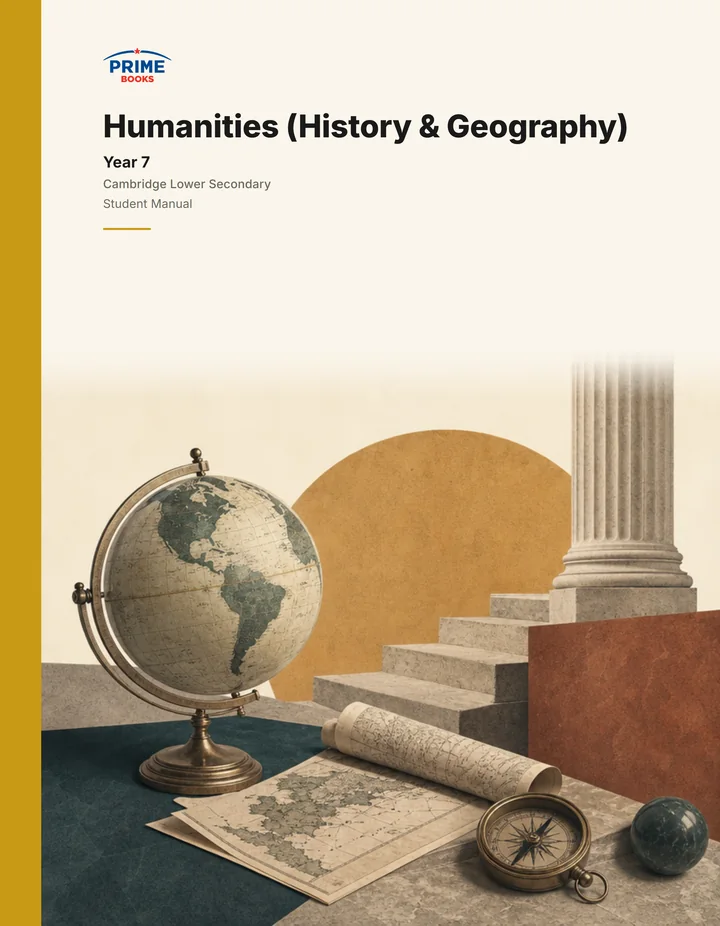
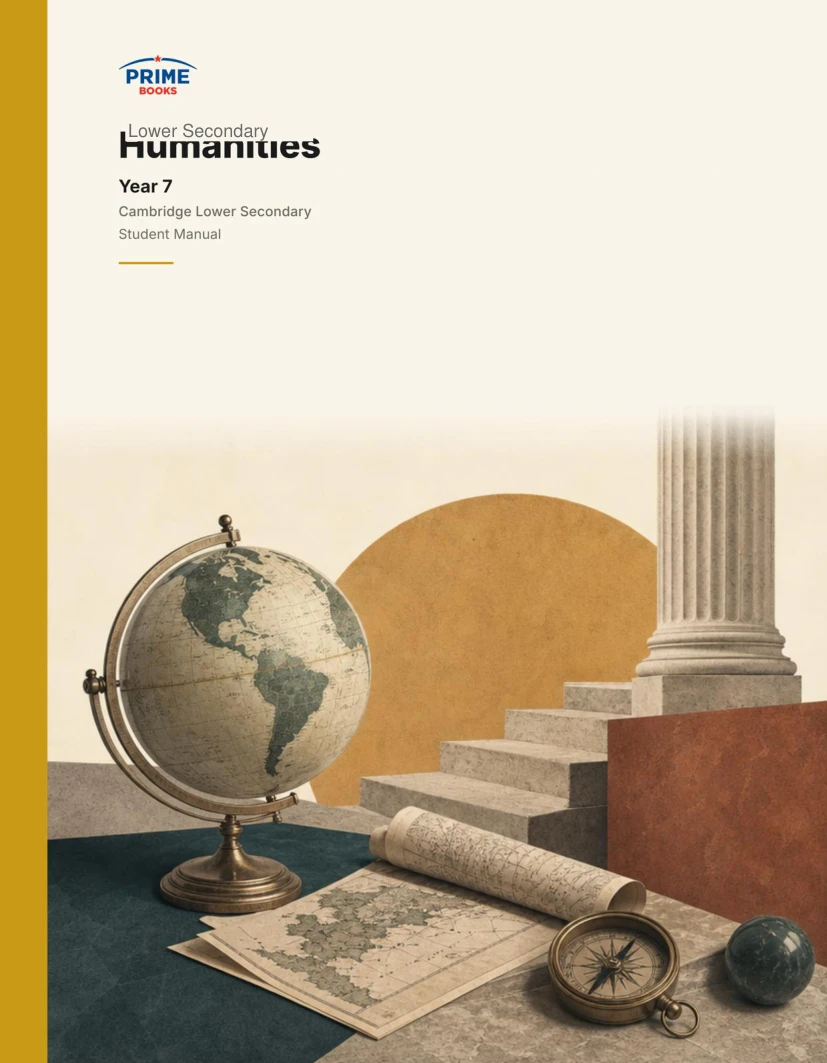
Fix dark-blue covers; every card now shows its book's own cover
Two bugs: (1) the cover-reveal CSS rule (.bcov img[src] { opacity: 1 }) was
lost in the 3D-excision sweep, so every cover sat invisible at opacity 0 over
the navy .bcov background; restored. (2) coverURL now prefers the book's OWN
cover.webp from its library/<slug>/ folder (rendered from page 1 by the sync
tool) before falling back to the shared collection-covers art. Generated the
7 missing covers (y07 Global Perspectives, y10 BTEC/Spanish, y11 PE, y12
Portuguese/Spanish A-level, y13 PE) from each book's page 1.

diff --git a/index.html b/index.html
@@ -669,6 +669,9 @@
         opacity: 0;
         transition: opacity 0.5s ease;
       }
+      .bcov img[src] {
+        opacity: 1;
+      }
 
       .bcov.dim img {
         filter: grayscale(0.65) brightness(0.85);
@@ -5261,6 +5264,17 @@ function rr(x, px, py, w, h, r) {
       function coverURL(year, subj) {
         const key = year + "|" + subj;
         if (coverCache.has(key)) return coverCache.get(key);
+        /* The book's own cover first: every library/<slug>/ folder ships a
+           cover.webp rendered from the book's page 1 (tools/sync_library.py),
+           so the card shows exactly this edition's artwork. */
+        const row = SUBJECT_ROWS[key];
+        if (row && row.cover) {
+          const live = window.__PB_LIVE
+            ? window.__PB_LIVE_BASE + row.cover
+            : row.cover;
+          coverCache.set(key, live);
+          return live;
+        }
         const catalogueBook =
           catData && catData.find((item) => item.year === year && item.subj === subj);
         if (catalogueBook && catalogueBook.cover) {
